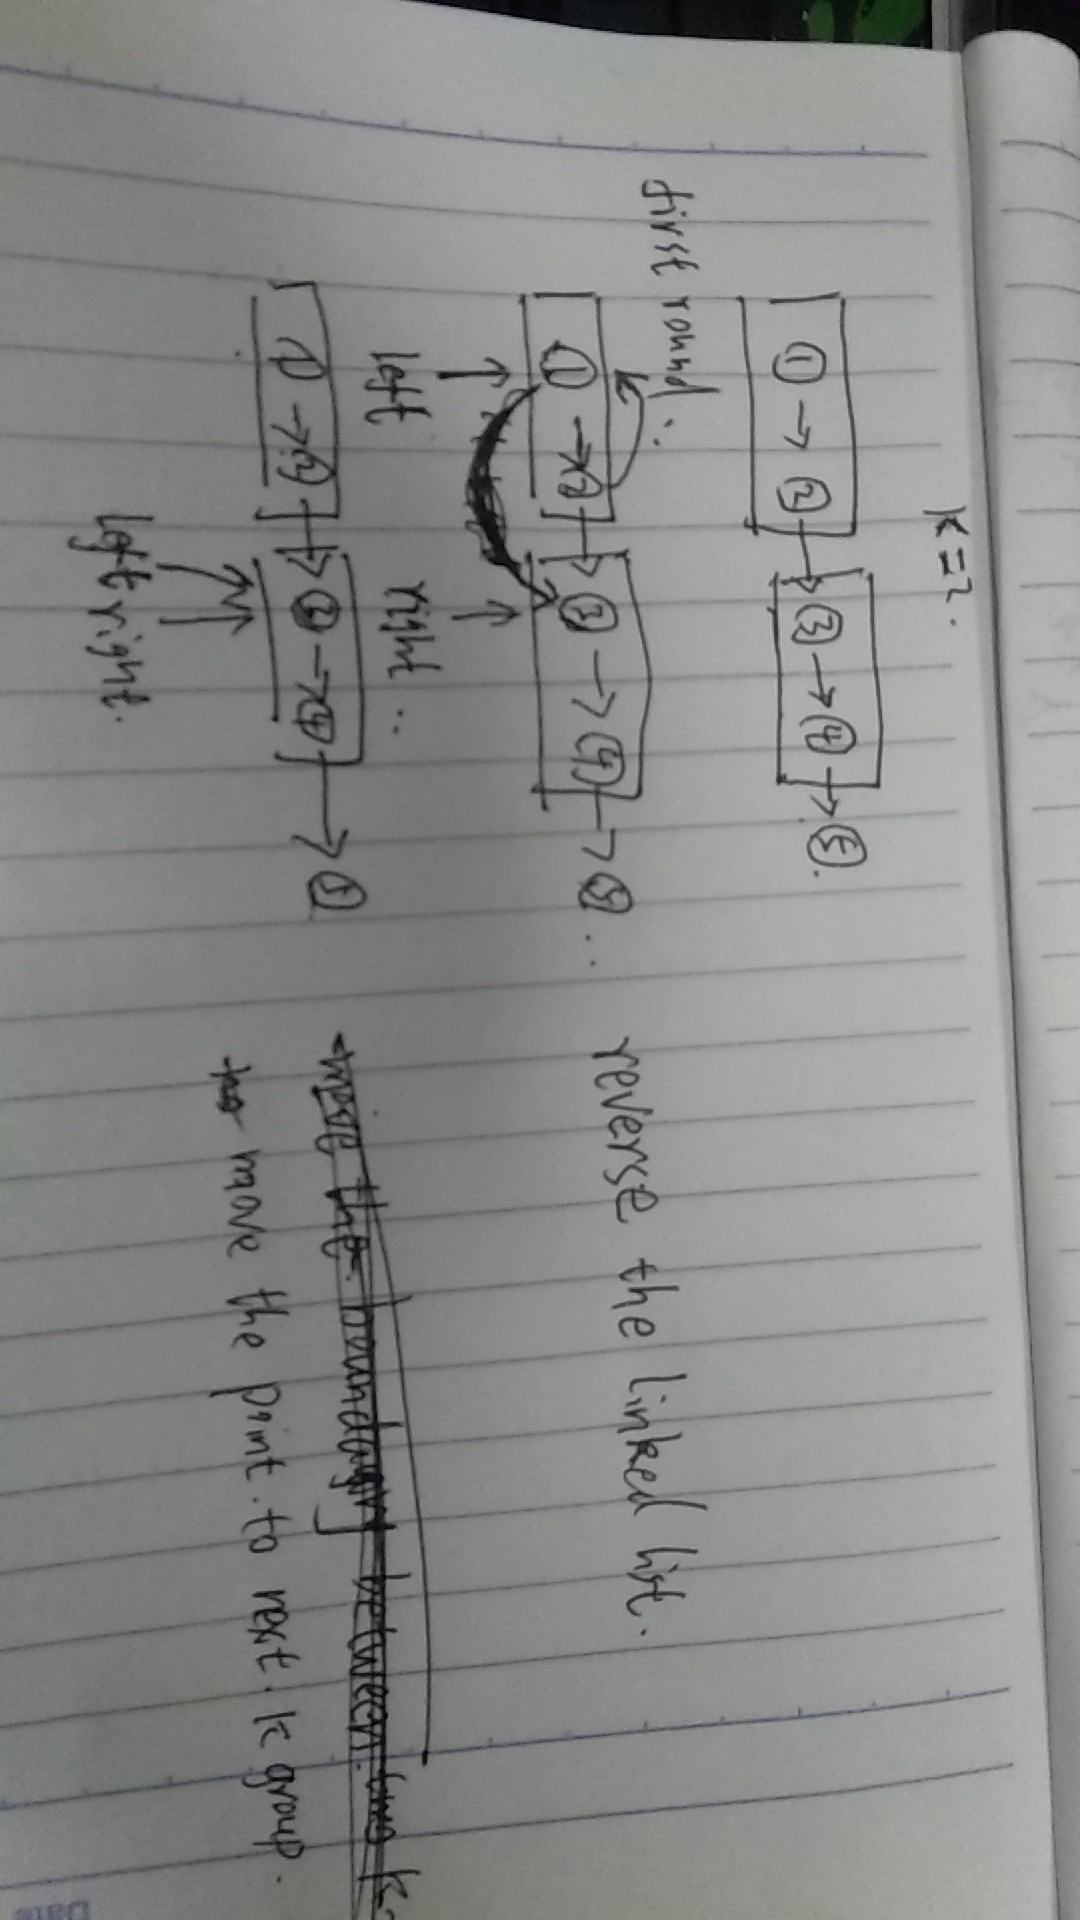
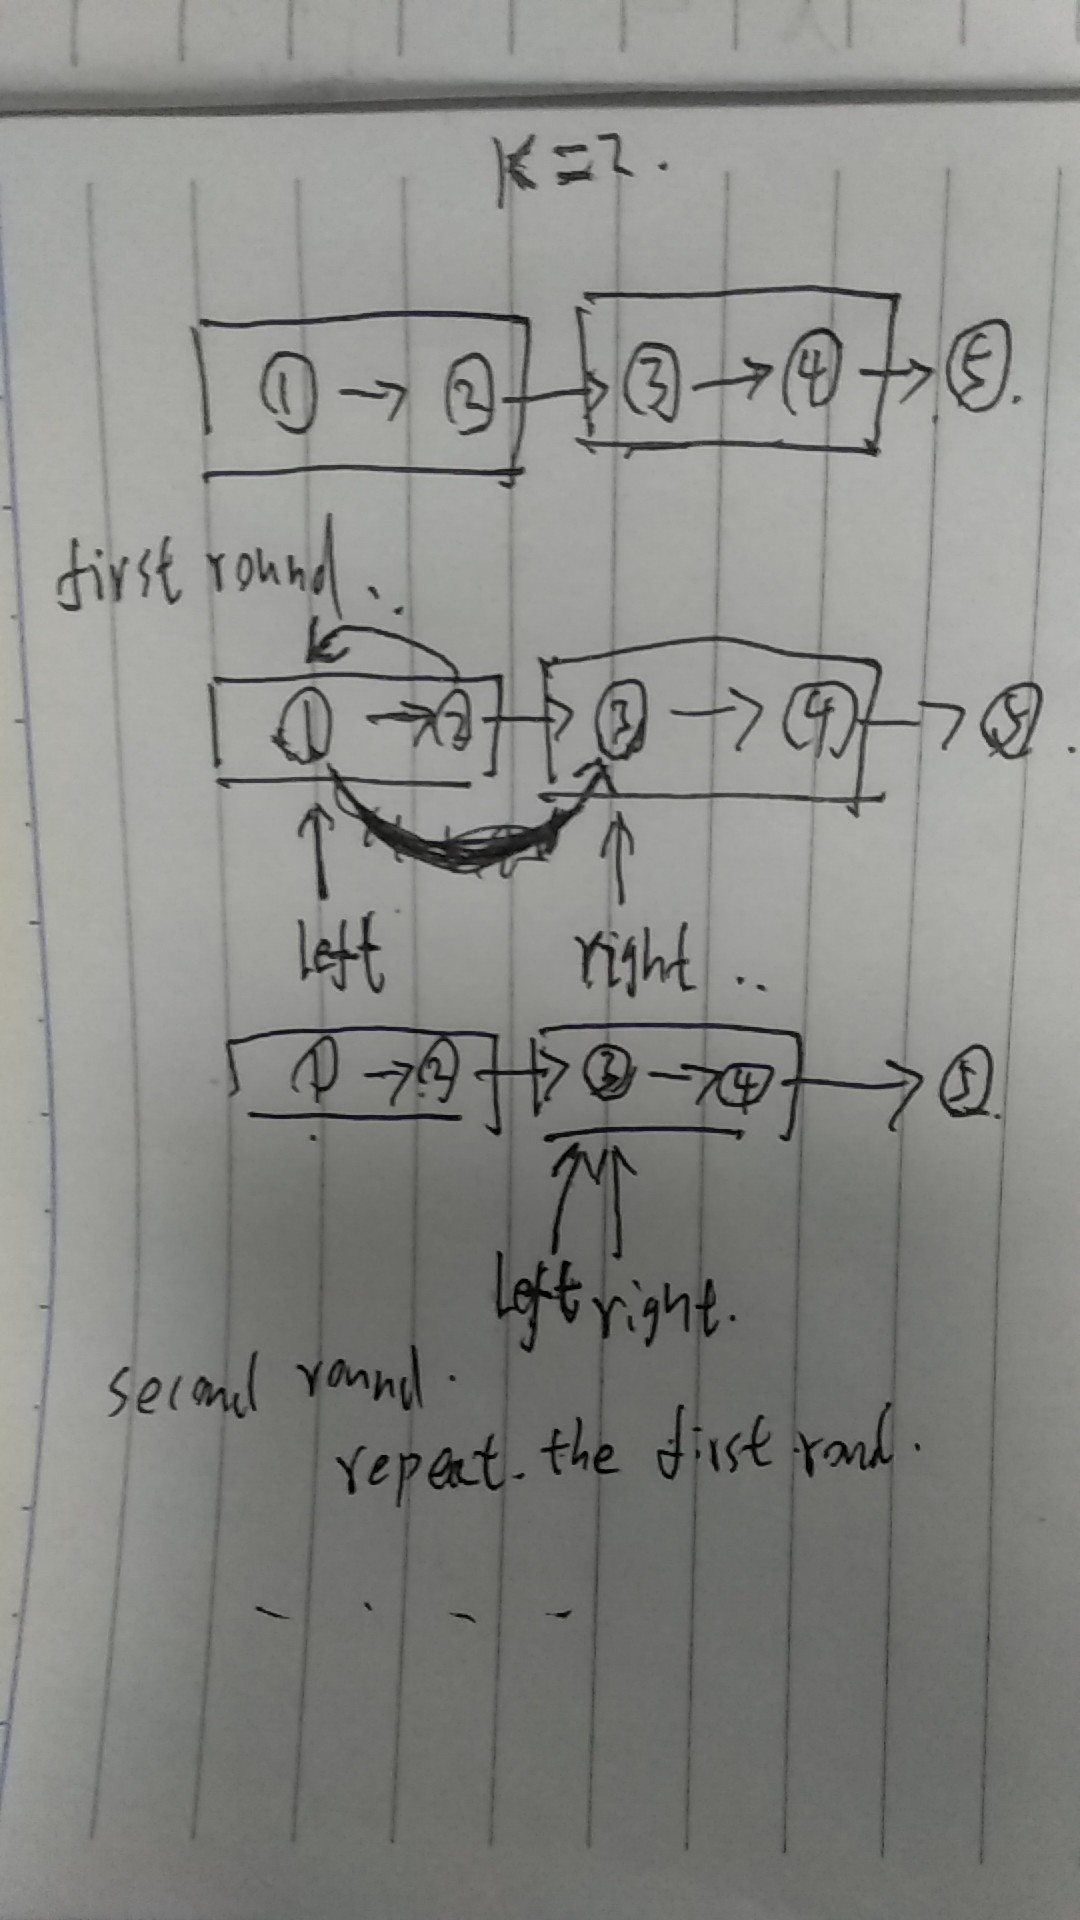
change the style of image

diff --git a/content/post/leetcode08.md b/content/post/leetcode08.md
@@ -46,7 +46,7 @@ class Solution(object):
                 return dummy.next
 ```
 Follwing is my draft about this problem Haha.
-<img src="https://user-gold-cdn.xitu.io/2019/3/9/169626eddc4b3a16?w=1080&h=1920&f=jpeg&s=223910" style="transform:rotate(270deg);-webkit-transform: rotate(270deg);">
+<img src="https://user-gold-cdn.xitu.io/2019/3/9/169626eddc4b3a16?w=1080&h=1920&f=jpeg&s=223910" style="height:50%">
 
 Hope you guys can understand this one.
 
